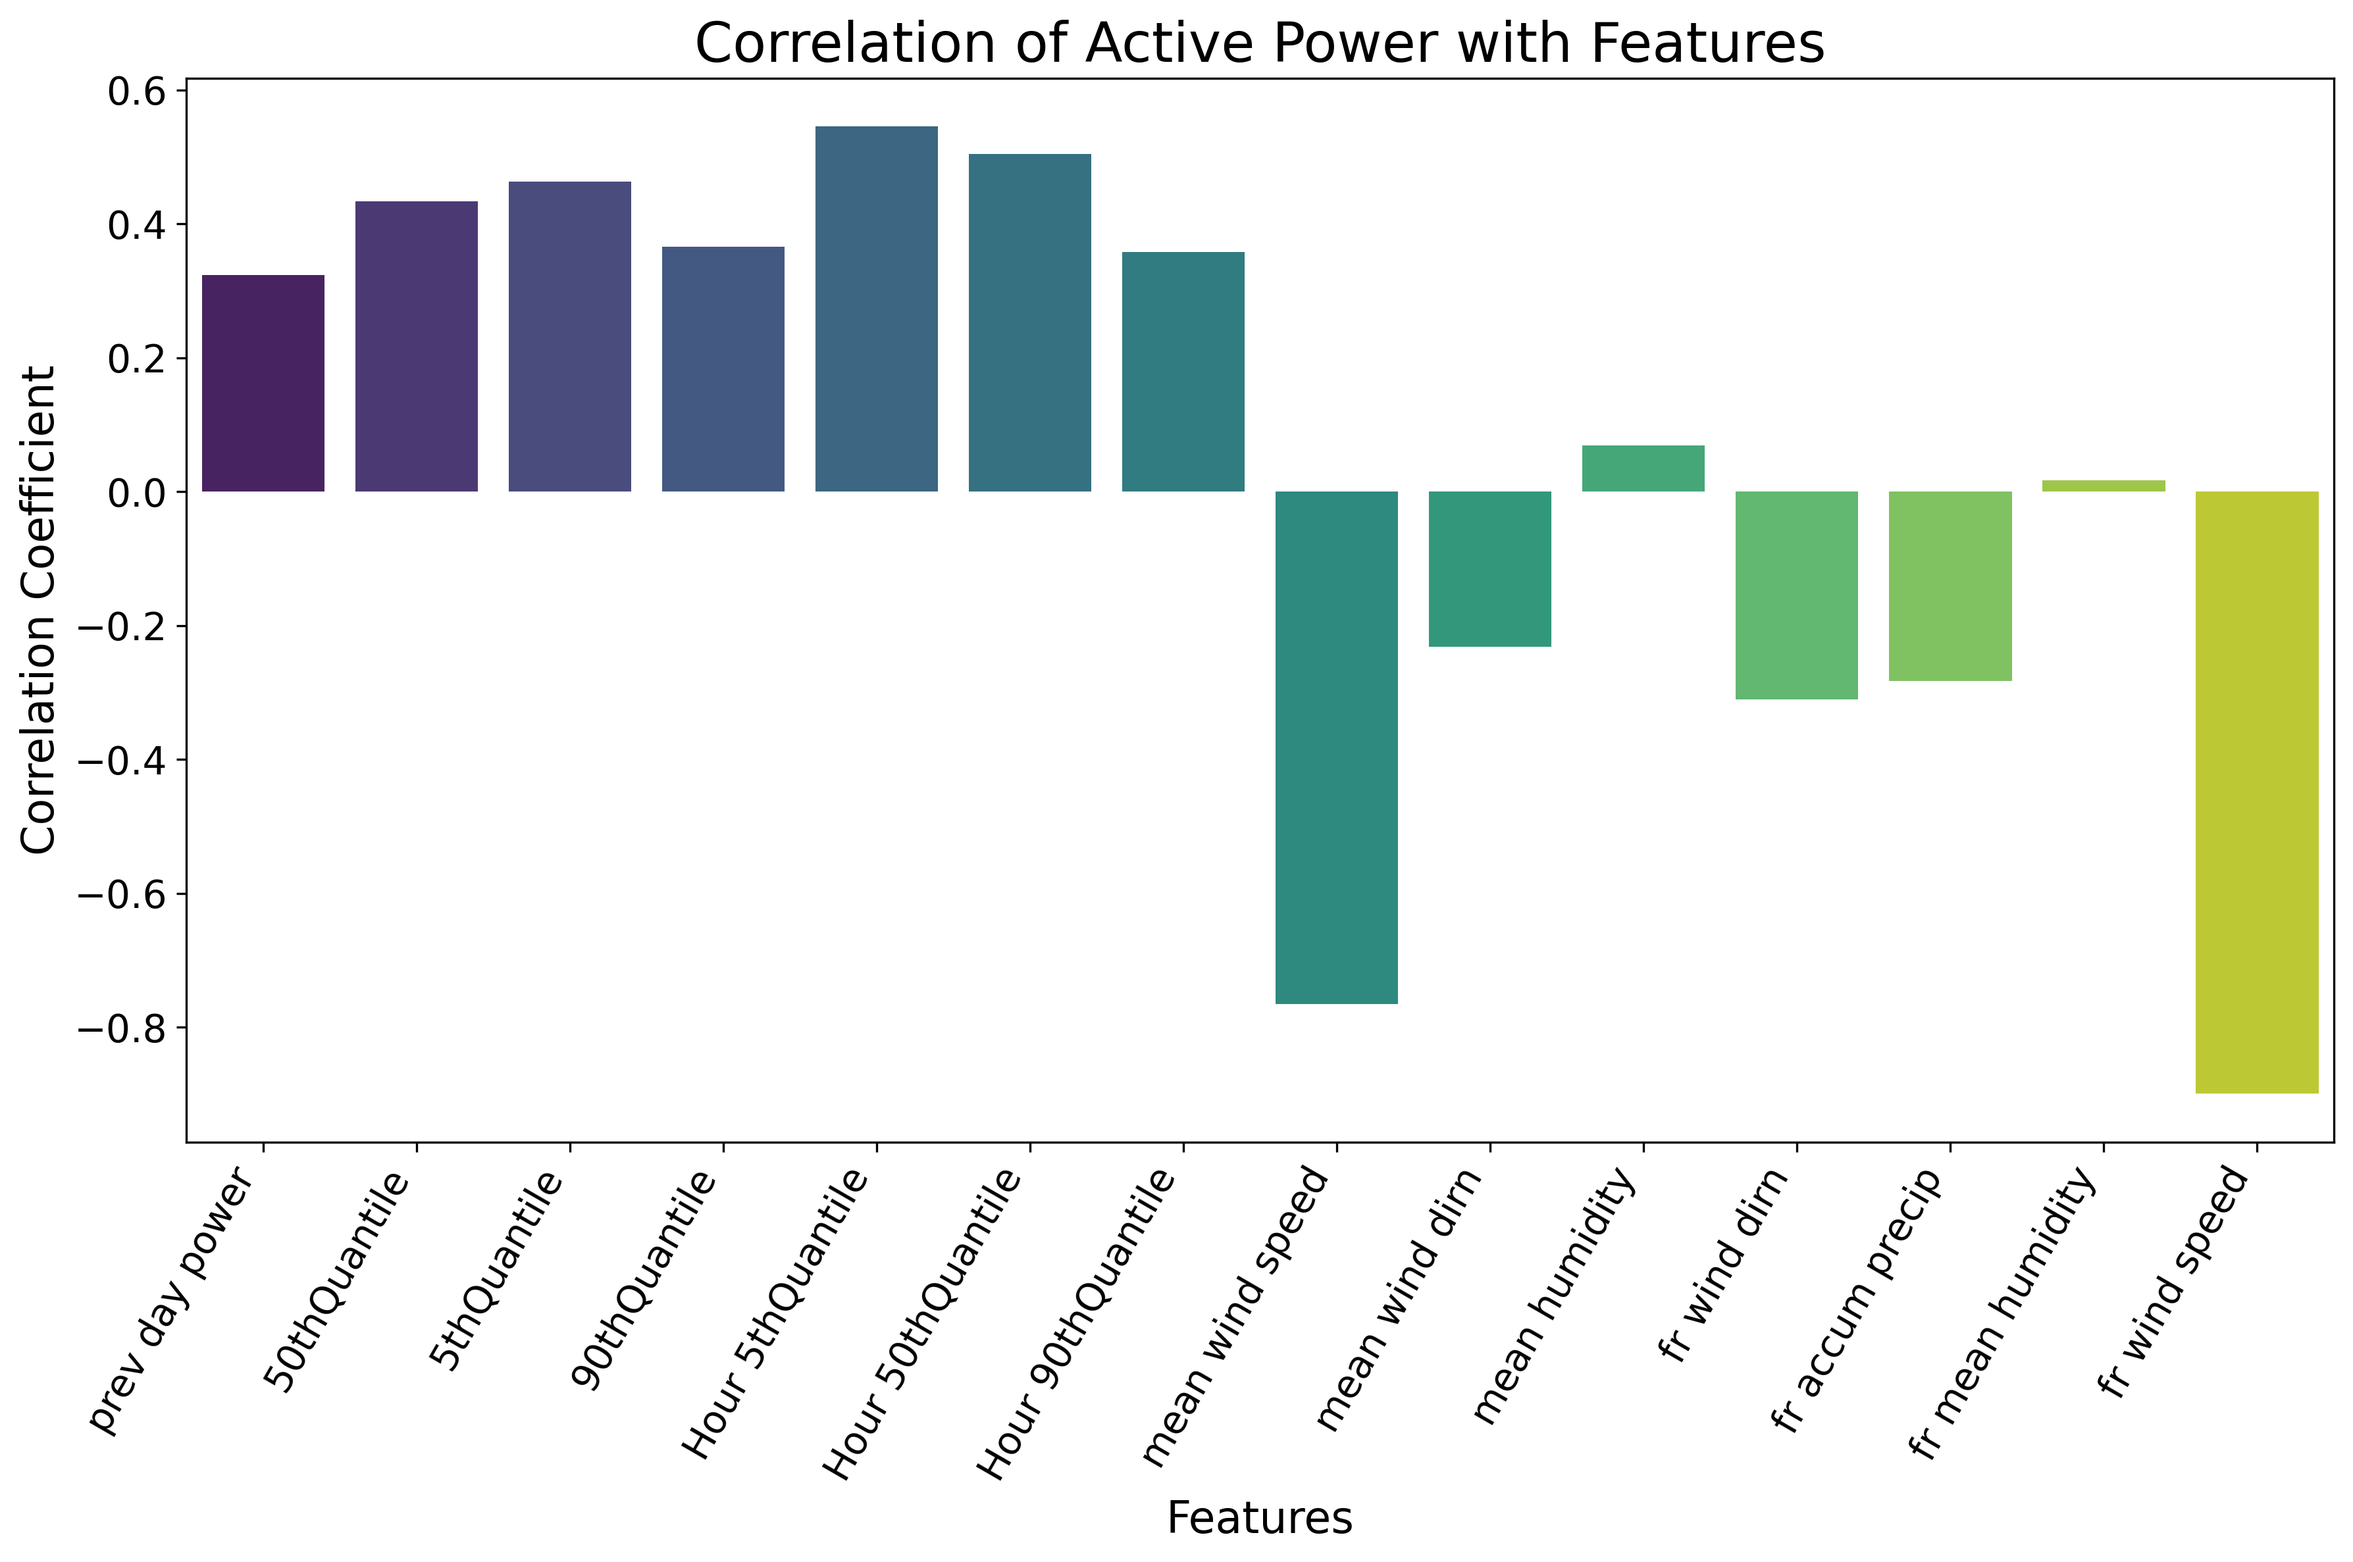
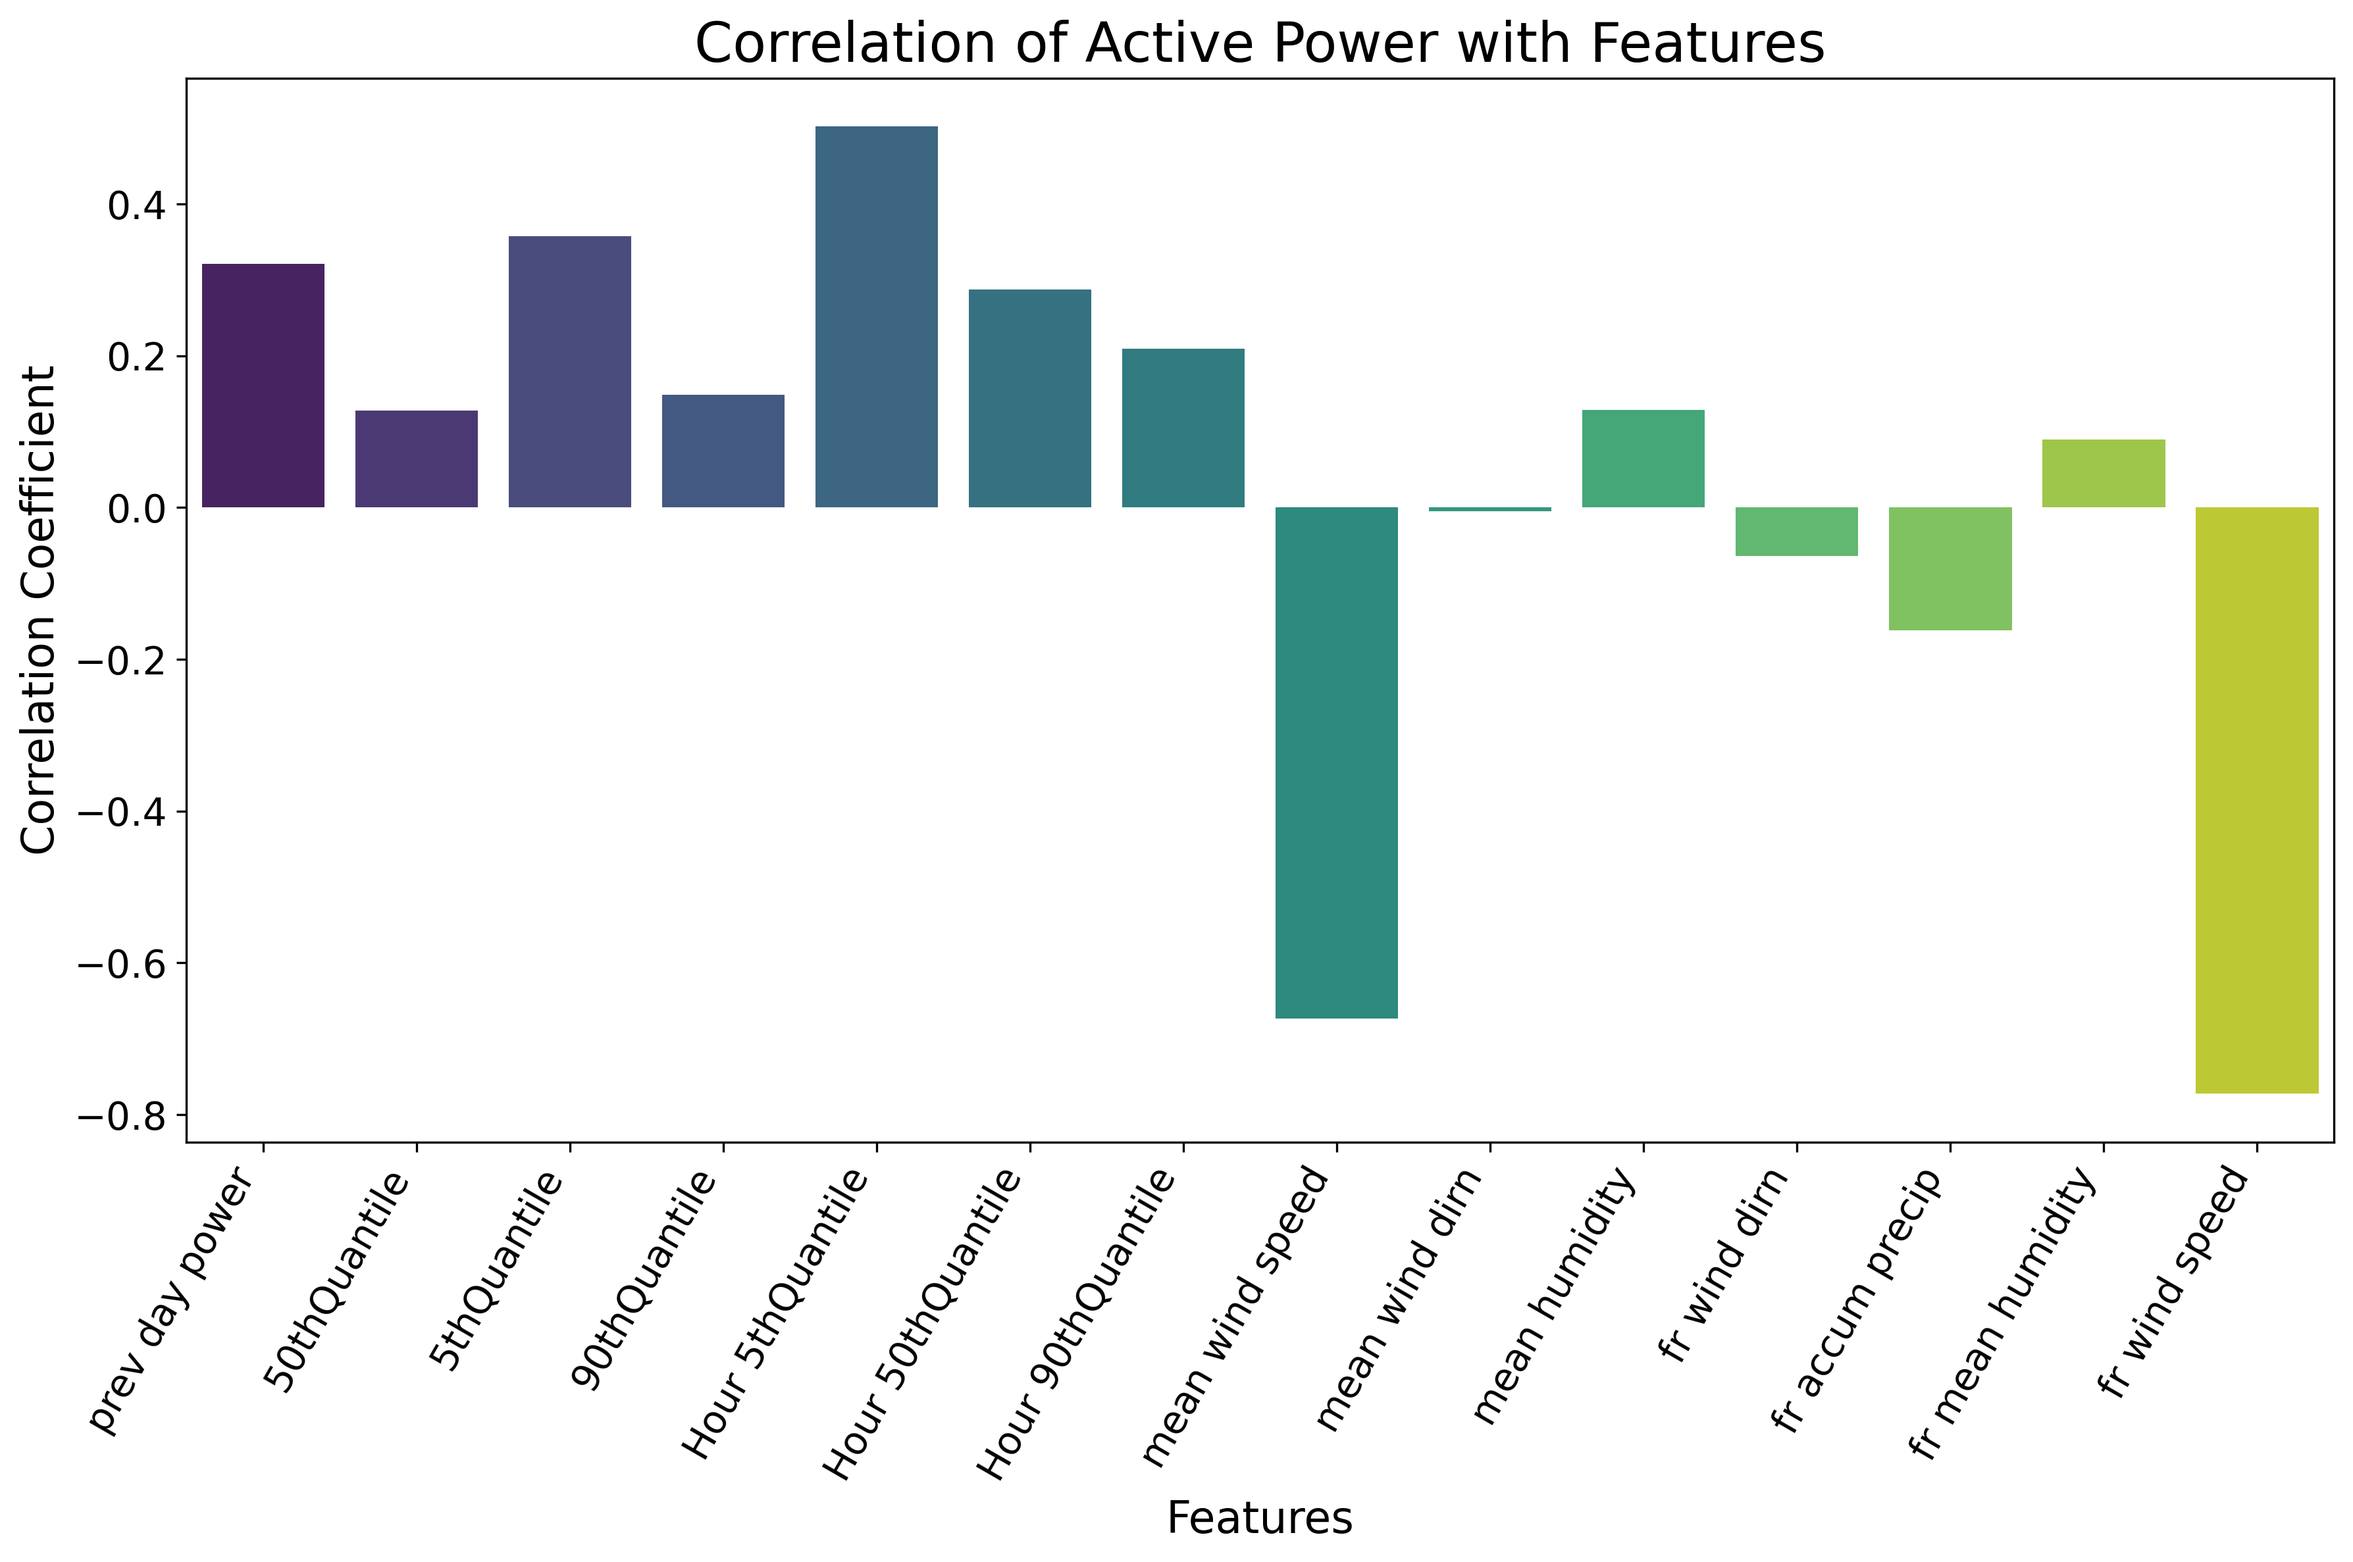
step 2 and 3 finished

diff --git a/Codes/Step_2_Final.py b/Codes/Step_2_Final.py
@@ -45,13 +45,13 @@ plt.show()
 print('Preprocessing ML')
 ## Preprocessing ML
 
-X_0 = dataset[['kalby_active_power', 'prev_day_power', '50thQuantile', '5thQuantile',
+X_0 = dataset[['prev_day_power', '50thQuantile', '5thQuantile',
        '90thQuantile', 'Hour_5thQuantile', 'Hour_50thQuantile',
        'Hour_90thQuantile', 'mean_wind_speed', 'mean_wind_dirn',
        'mean_humidity', 'fr_wind_dirn', 'fr_accum_precip', 'fr_mean_humidity',
        'fr_wind_speed']]
 
-y_0 = dataset['kalby_active_power']
+y_0 = -dataset['kalby_active_power']
 
 scaler = MinMaxScaler()
 
